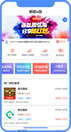
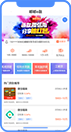
修改头部电话号码位置

diff --git a/components/1-01-Top.js b/components/1-01-Top.js
@@ -31,16 +31,20 @@ export default class extends Component {
               <div className="w110 h110 code-bg" />
             </div>
           )}
-          <WrapLink
-            className="c666 pl15 home-top-city-bg"
-            href="/city"
-            as="/city"
-          >
-            {city}[切换]
-          </WrapLink>
+          <div>
+            <WrapLink
+              className="c333 pl15 home-top-city-bg mr30"
+              href="/city"
+              as="/city"
+            >
+              {city}[切换]
+            </WrapLink>
+            <span className="c999" style={{ marginRight: "35px" }}>
+              客服热线：400-968-8821
+            </span>
+            <span className="c999">招商热线：13693719740</span>
+          </div>
           <div className="flex ai-center">
-            <span style={{ marginRight: "30px" }}>客服热线：400-968-8821</span>
-            <span style={{ marginRight: "35px" }}>招商热线：13693719740</span>
             {me ? (
               <Fragment>
                 <WrapLink
